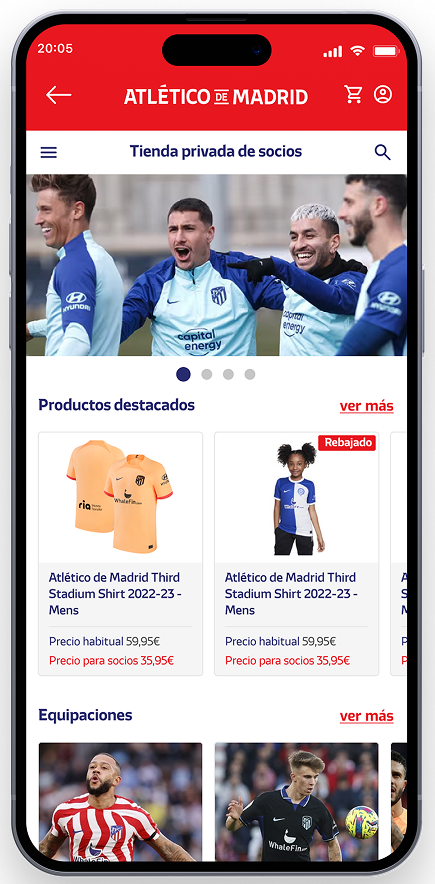
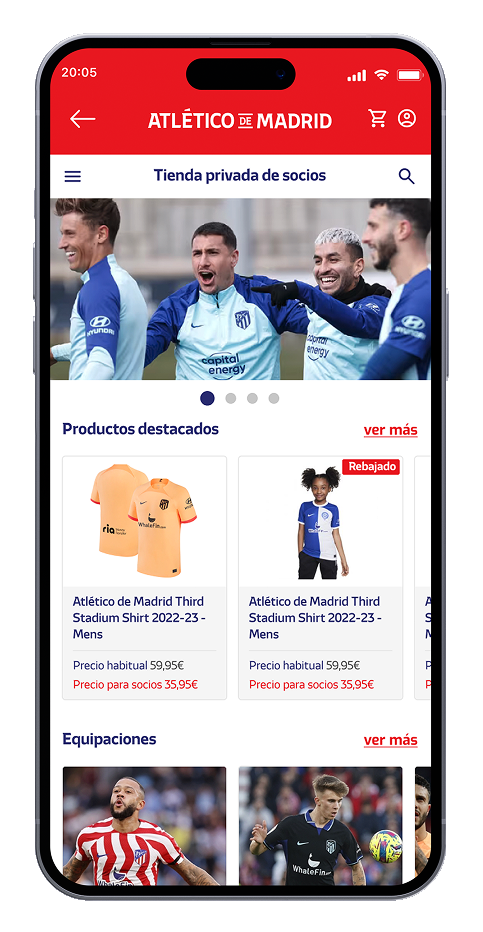
Clean Atlético home mockup shadow

diff --git a/beta/index.html b/beta/index.html
@@ -9,7 +9,7 @@
   <meta name="robots" content="noindex,follow">
   <link rel="canonical" href="https://felipecaroe.github.io/portfolio/beta/">
   <link rel="icon" href="img/favicon.ico">
-  <link rel="stylesheet" href="assets/site.css?v=20261004-community-logos2">
+  <link rel="stylesheet" href="assets/site.css?v=20261004-community-logos3">
   <meta property="og:type" content="website">
   <meta property="og:title" content="Senior AI product designer for agencies | Felipe Amorim">
   <meta property="og:description" content="Senior AI product design and UX/UI for agencies and studios in Madrid, Europe and the UK. Clear conversational experiences, considered edge cases and developer-ready design.">
@@ -18,7 +18,7 @@
   <meta property="og:image:alt" content="Felipe Amorim, senior freelance UX/UI designer for agency teams.">
   <meta name="twitter:card" content="summary_large_image">
   <script type="application/ld+json">[{"@context": "https://schema.org", "@type": "Person", "@id": "https://felipecaroe.github.io/portfolio/beta/#felipe", "name": "Felipe Amorim", "url": "https://felipecaroe.github.io/portfolio/beta/", "image": "https://felipecaroe.github.io/portfolio/beta/img/felipe.png", "jobTitle": "Senior AI product designer and UX lead", "homeLocation": {"@type": "Place", "name": "Madrid, Spain"}, "sameAs": ["https://www.linkedin.com/in/felipecaroe/", "https://www.behance.net/felipecaroe"]}, {"@context": "https://schema.org", "@type": "WebPage", "@id": "https://felipecaroe.github.io/portfolio/beta/#webpage", "url": "https://felipecaroe.github.io/portfolio/beta/", "name": "Senior AI product designer for agencies | Felipe Amorim", "description": "Senior AI product design and UX/UI for agencies and studios in Madrid, Europe and the UK. Clear conversational experiences, considered edge cases and developer-ready design.", "author": {"@id": "https://felipecaroe.github.io/portfolio/beta/#felipe"}}]</script>
-  <link rel="stylesheet" href="assets/theme-washed-blue.css?v=20261004-community-logos2">
+  <link rel="stylesheet" href="assets/theme-washed-blue.css?v=20261004-community-logos3">
 </head>
 <body>
 <video class="site-background-video" autoplay loop muted playsinline webkit-playsinline preload="auto" aria-hidden="true" tabindex="-1"><source src="img/foammedium.webm" type="video/webm"></video>
@@ -44,7 +44,7 @@
   <div class="section-head"><h2>Design that moves the brief forward.</h2><p class="body-copy">Explore product and service work across AI, fintech, sport and hospitality. Each case shows the challenge, my role and the decisions behind the experience.</p></div>
   <div class="work-list">
     <a class="work-card" href="work/luzia-new-chat/"><div class="work-image work-image--device work-image--luzia"><img src="work/luzia-new-chat/assets/first-entrance-shell.png" alt="Luzia AI assistant in a rounded iPhone mockup" width="417" height="881" loading="lazy"></div><div class="work-details"><div><h3>Luzia · New chat</h3><p>AI product · Product strategy · Experience design</p></div><span class="arrow" aria-hidden="true"><svg class="arrow-icon" viewBox="0 0 16 16" aria-hidden="true" focusable="false"><path d="M4 12 12 4M5 4h7v7"/></svg></span></div></a>
-    <a class="work-card work-card--atletico" href="work/atletico-de-madrid.html"><div class="work-image work-image--device"><img src="img/home-atletico-shell.png" alt="Atlético de Madrid mobile shop shown in a rounded phone mockup" width="435" height="884" loading="lazy"></div><div class="work-details"><div><h3>Atlético de Madrid</h3><p>Fan services · Mobile product · +€350k reported monthly revenue</p></div><span class="arrow" aria-hidden="true"><svg class="arrow-icon" viewBox="0 0 16 16" aria-hidden="true" focusable="false"><path d="M4 12 12 4M5 4h7v7"/></svg></span></div></a>
+    <a class="work-card work-card--atletico" href="work/atletico-de-madrid.html"><div class="work-image work-image--device"><img src="img/home-atletico-shell.png" alt="Atlético de Madrid mobile shop shown in a rounded phone mockup" width="483" height="932" loading="lazy"></div><div class="work-details"><div><h3>Atlético de Madrid</h3><p>Fan services · Mobile product · +€350k reported monthly revenue</p></div><span class="arrow" aria-hidden="true"><svg class="arrow-icon" viewBox="0 0 16 16" aria-hidden="true" focusable="false"><path d="M4 12 12 4M5 4h7v7"/></svg></span></div></a>
     <a class="work-card" href="work/card-dynamics.html"><div class="work-image work-image--device"><img src="img/card_dynamics/1.png" alt="Card Dynamics and Carrefour mortgage flow shown in a rounded phone mockup" width="1109" height="2283" loading="lazy"></div><div class="work-details"><div><h3>Card Dynamics</h3><p>Fintech · Product direction · Partner-ready banking flows</p></div><span class="arrow" aria-hidden="true"><svg class="arrow-icon" viewBox="0 0 16 16" aria-hidden="true" focusable="false"><path d="M4 12 12 4M5 4h7v7"/></svg></span></div></a>
     <a class="work-card" href="work/outback.html"><div class="work-image work-image--device"><img src="img/home-outback-shell.png" alt="Outback mobile dining experience shown in a rounded phone mockup" width="429" height="877" loading="lazy"></div><div class="work-details"><div><h3>Outback</h3><p>Customer experience · Service design · +29% reported sales</p></div><span class="arrow" aria-hidden="true"><svg class="arrow-icon" viewBox="0 0 16 16" aria-hidden="true" focusable="false"><path d="M4 12 12 4M5 4h7v7"/></svg></span></div></a>
   </div><p style="margin:32px 0 0"><a class="text-link" href="work.html">Explore all selected work <span class="arrow" aria-hidden="true"><svg class="arrow-icon" viewBox="0 0 16 16" aria-hidden="true" focusable="false"><path d="M4 12 12 4M5 4h7v7"/></svg></span></a></p>

diff --git a/beta/work/ipiranga.html b/beta/work/ipiranga.html
@@ -2,9 +2,9 @@
 <html lang="en"><head>
 <meta charset="utf-8"><meta name="viewport" content="width=device-width, initial-scale=1"><meta name="theme-color" content="#f7f9fc">
 <title>Ipiranga | Felipe Amorim</title><meta name="description" content="Ipiranga Super App product design by Felipe Amorim. The Behance case shows a mobile experience bringing services and account actions together."><meta name="robots" content="noindex,follow">
-<link rel="canonical" href="https://felipecaroe.github.io/portfolio/beta/work/ipiranga.html"><link rel="icon" href="../img/favicon.ico"><link rel="stylesheet" href="../assets/site.css?v=20261004-community-logos2">
+<link rel="canonical" href="https://felipecaroe.github.io/portfolio/beta/work/ipiranga.html"><link rel="icon" href="../img/favicon.ico"><link rel="stylesheet" href="../assets/site.css?v=20261004-community-logos3">
 <meta property="og:type" content="website"><meta property="og:title" content="Ipiranga | Felipe Amorim"><meta property="og:description" content="Ipiranga Super App product design by Felipe Amorim. The Behance case shows a mobile experience bringing services and account actions together."><meta property="og:url" content="https://felipecaroe.github.io/portfolio/beta/work/ipiranga.html"><meta property="og:image" content="https://felipecaroe.github.io/portfolio/beta/work/ipiranga/assets/selected/hero.jpg"><meta property="og:image:alt" content="Ipiranga Super App mobile interface set within yellow and blue brand imagery"><meta name="twitter:card" content="summary_large_image">
-<script type="application/ld+json">[{"@context": "https://schema.org", "@type": "Person", "@id": "https://felipecaroe.github.io/portfolio/beta/#felipe", "name": "Felipe Amorim", "url": "https://felipecaroe.github.io/portfolio/beta/", "image": "https://felipecaroe.github.io/portfolio/beta/img/felipe.png", "jobTitle": "Senior AI product designer and UX lead", "homeLocation": {"@type": "Place", "name": "Madrid, Spain"}, "sameAs": ["https://www.linkedin.com/in/felipecaroe/", "https://www.behance.net/felipecaroe"]}, {"@context": "https://schema.org", "@type": "WebPage", "@id": "https://felipecaroe.github.io/portfolio/beta/work/ipiranga.html#webpage", "url": "https://felipecaroe.github.io/portfolio/beta/work/ipiranga.html", "name": "Ipiranga | Felipe Amorim", "description": "Ipiranga Super App product design by Felipe Amorim. The Behance case shows a mobile experience bringing services and account actions together.", "author": {"@id": "https://felipecaroe.github.io/portfolio/beta/#felipe"}}]</script>  <link rel="stylesheet" href="../assets/theme-washed-blue.css?v=20261004-community-logos2">
+<script type="application/ld+json">[{"@context": "https://schema.org", "@type": "Person", "@id": "https://felipecaroe.github.io/portfolio/beta/#felipe", "name": "Felipe Amorim", "url": "https://felipecaroe.github.io/portfolio/beta/", "image": "https://felipecaroe.github.io/portfolio/beta/img/felipe.png", "jobTitle": "Senior AI product designer and UX lead", "homeLocation": {"@type": "Place", "name": "Madrid, Spain"}, "sameAs": ["https://www.linkedin.com/in/felipecaroe/", "https://www.behance.net/felipecaroe"]}, {"@context": "https://schema.org", "@type": "WebPage", "@id": "https://felipecaroe.github.io/portfolio/beta/work/ipiranga.html#webpage", "url": "https://felipecaroe.github.io/portfolio/beta/work/ipiranga.html", "name": "Ipiranga | Felipe Amorim", "description": "Ipiranga Super App product design by Felipe Amorim. The Behance case shows a mobile experience bringing services and account actions together.", "author": {"@id": "https://felipecaroe.github.io/portfolio/beta/#felipe"}}]</script>  <link rel="stylesheet" href="../assets/theme-washed-blue.css?v=20261004-community-logos3">
 </head><body>
 <video class="site-background-video" autoplay loop muted playsinline webkit-playsinline preload="auto" aria-hidden="true" tabindex="-1"><source src="../img/foammedium.webm" type="video/webm"></video><a class="skip-link" href="#main">Skip to content</a>
 <header class="site-header"><div class="shell header-row"><a class="brand" href="../index.html" aria-label="Felipe Amorim, home"><img class="brand-anchor" src="../img/anchor.svg" alt="">Felipe Amorim</a><nav class="nav" aria-label="Main navigation"><a href="../work.html" aria-current="page">Work</a><a href="../services.html">Services</a><a href="../leadership.html">About</a><a class="nav-contact" href="../contact.html">Contact</a></nav></div></header>

diff --git a/beta/work/raio.html b/beta/work/raio.html
@@ -2,9 +2,9 @@
 <html lang="en"><head>
 <meta charset="utf-8"><meta name="viewport" content="width=device-width, initial-scale=1"><meta name="theme-color" content="#f7f9fc">
 <title>Raiô | Felipe Amorim</title><meta name="description" content="UX Raiô Benefícios product design by Felipe Amorim. The Behance case shows mobile views for benefits and financial information."><meta name="robots" content="noindex,follow">
-<link rel="canonical" href="https://felipecaroe.github.io/portfolio/beta/work/raio.html"><link rel="icon" href="../img/favicon.ico"><link rel="stylesheet" href="../assets/site.css?v=20261004-community-logos2">
+<link rel="canonical" href="https://felipecaroe.github.io/portfolio/beta/work/raio.html"><link rel="icon" href="../img/favicon.ico"><link rel="stylesheet" href="../assets/site.css?v=20261004-community-logos3">
 <meta property="og:type" content="website"><meta property="og:title" content="Raiô | Felipe Amorim"><meta property="og:description" content="UX Raiô Benefícios product design by Felipe Amorim. The Behance case shows mobile views for benefits and financial information."><meta property="og:url" content="https://felipecaroe.github.io/portfolio/beta/work/raio.html"><meta property="og:image" content="https://felipecaroe.github.io/portfolio/beta/work/raio/assets/selected/hero.jpg"><meta property="og:image:alt" content="Raiô benefits app presented across three mobile screens"><meta name="twitter:card" content="summary_large_image">
-<script type="application/ld+json">[{"@context": "https://schema.org", "@type": "Person", "@id": "https://felipecaroe.github.io/portfolio/beta/#felipe", "name": "Felipe Amorim", "url": "https://felipecaroe.github.io/portfolio/beta/", "image": "https://felipecaroe.github.io/portfolio/beta/img/felipe.png", "jobTitle": "Senior AI product designer and UX lead", "homeLocation": {"@type": "Place", "name": "Madrid, Spain"}, "sameAs": ["https://www.linkedin.com/in/felipecaroe/", "https://www.behance.net/felipecaroe"]}, {"@context": "https://schema.org", "@type": "WebPage", "@id": "https://felipecaroe.github.io/portfolio/beta/work/raio.html#webpage", "url": "https://felipecaroe.github.io/portfolio/beta/work/raio.html", "name": "Raiô | Felipe Amorim", "description": "UX Raiô Benefícios product design by Felipe Amorim. The Behance case shows mobile views for benefits and financial information.", "author": {"@id": "https://felipecaroe.github.io/portfolio/beta/#felipe"}}]</script>  <link rel="stylesheet" href="../assets/theme-washed-blue.css?v=20261004-community-logos2">
+<script type="application/ld+json">[{"@context": "https://schema.org", "@type": "Person", "@id": "https://felipecaroe.github.io/portfolio/beta/#felipe", "name": "Felipe Amorim", "url": "https://felipecaroe.github.io/portfolio/beta/", "image": "https://felipecaroe.github.io/portfolio/beta/img/felipe.png", "jobTitle": "Senior AI product designer and UX lead", "homeLocation": {"@type": "Place", "name": "Madrid, Spain"}, "sameAs": ["https://www.linkedin.com/in/felipecaroe/", "https://www.behance.net/felipecaroe"]}, {"@context": "https://schema.org", "@type": "WebPage", "@id": "https://felipecaroe.github.io/portfolio/beta/work/raio.html#webpage", "url": "https://felipecaroe.github.io/portfolio/beta/work/raio.html", "name": "Raiô | Felipe Amorim", "description": "UX Raiô Benefícios product design by Felipe Amorim. The Behance case shows mobile views for benefits and financial information.", "author": {"@id": "https://felipecaroe.github.io/portfolio/beta/#felipe"}}]</script>  <link rel="stylesheet" href="../assets/theme-washed-blue.css?v=20261004-community-logos3">
 </head><body>
 <video class="site-background-video" autoplay loop muted playsinline webkit-playsinline preload="auto" aria-hidden="true" tabindex="-1"><source src="../img/foammedium.webm" type="video/webm"></video><a class="skip-link" href="#main">Skip to content</a>
 <header class="site-header"><div class="shell header-row"><a class="brand" href="../index.html" aria-label="Felipe Amorim, home"><img class="brand-anchor" src="../img/anchor.svg" alt="">Felipe Amorim</a><nav class="nav" aria-label="Main navigation"><a href="../work.html" aria-current="page">Work</a><a href="../services.html">Services</a><a href="../leadership.html">About</a><a class="nav-contact" href="../contact.html">Contact</a></nav></div></header>

diff --git a/beta/work/skateking.html b/beta/work/skateking.html
@@ -2,9 +2,9 @@
 <html lang="en"><head>
 <meta charset="utf-8"><meta name="viewport" content="width=device-width, initial-scale=1"><meta name="theme-color" content="#f7f9fc">
 <title>SkateKing | Felipe Amorim</title><meta name="description" content="SkateKing is a community app designed to help skateboarders find skate spots, skateparks and shops."><meta name="robots" content="noindex,follow">
-<link rel="canonical" href="https://felipecaroe.github.io/portfolio/beta/work/skateking.html"><link rel="icon" href="../img/favicon.ico"><link rel="stylesheet" href="../assets/site.css?v=20261004-community-logos2">
+<link rel="canonical" href="https://felipecaroe.github.io/portfolio/beta/work/skateking.html"><link rel="icon" href="../img/favicon.ico"><link rel="stylesheet" href="../assets/site.css?v=20261004-community-logos3">
 <meta property="og:type" content="website"><meta property="og:title" content="SkateKing | Felipe Amorim"><meta property="og:description" content="SkateKing is a community app designed to help skateboarders find skate spots, skateparks and shops."><meta property="og:url" content="https://felipecaroe.github.io/portfolio/beta/work/skateking.html"><meta property="og:image" content="https://felipecaroe.github.io/portfolio/beta/img/behance/skateking.png"><meta property="og:image:alt" content="SkateKing app visual about a mobile community to discover places to skate"><meta name="twitter:card" content="summary_large_image">
-<script type="application/ld+json">[{"@context": "https://schema.org", "@type": "Person", "@id": "https://felipecaroe.github.io/portfolio/beta/#felipe", "name": "Felipe Amorim", "url": "https://felipecaroe.github.io/portfolio/beta/", "image": "https://felipecaroe.github.io/portfolio/beta/img/felipe.png", "jobTitle": "Senior AI product designer and UX lead", "homeLocation": {"@type": "Place", "name": "Madrid, Spain"}, "sameAs": ["https://www.linkedin.com/in/felipecaroe/", "https://www.behance.net/felipecaroe"]}, {"@context": "https://schema.org", "@type": "WebPage", "@id": "https://felipecaroe.github.io/portfolio/beta/work/skateking.html#webpage", "url": "https://felipecaroe.github.io/portfolio/beta/work/skateking.html", "name": "SkateKing | Felipe Amorim", "description": "SkateKing is a community app designed to help skateboarders find skate spots, skateparks and shops.", "author": {"@id": "https://felipecaroe.github.io/portfolio/beta/#felipe"}}]</script>  <link rel="stylesheet" href="../assets/theme-washed-blue.css?v=20261004-community-logos2">
+<script type="application/ld+json">[{"@context": "https://schema.org", "@type": "Person", "@id": "https://felipecaroe.github.io/portfolio/beta/#felipe", "name": "Felipe Amorim", "url": "https://felipecaroe.github.io/portfolio/beta/", "image": "https://felipecaroe.github.io/portfolio/beta/img/felipe.png", "jobTitle": "Senior AI product designer and UX lead", "homeLocation": {"@type": "Place", "name": "Madrid, Spain"}, "sameAs": ["https://www.linkedin.com/in/felipecaroe/", "https://www.behance.net/felipecaroe"]}, {"@context": "https://schema.org", "@type": "WebPage", "@id": "https://felipecaroe.github.io/portfolio/beta/work/skateking.html#webpage", "url": "https://felipecaroe.github.io/portfolio/beta/work/skateking.html", "name": "SkateKing | Felipe Amorim", "description": "SkateKing is a community app designed to help skateboarders find skate spots, skateparks and shops.", "author": {"@id": "https://felipecaroe.github.io/portfolio/beta/#felipe"}}]</script>  <link rel="stylesheet" href="../assets/theme-washed-blue.css?v=20261004-community-logos3">
 </head><body>
 <video class="site-background-video" autoplay loop muted playsinline webkit-playsinline preload="auto" aria-hidden="true" tabindex="-1"><source src="../img/foammedium.webm" type="video/webm"></video><a class="skip-link" href="#main">Skip to content</a>
 <header class="site-header"><div class="shell header-row"><a class="brand" href="../index.html" aria-label="Felipe Amorim, home"><img class="brand-anchor" src="../img/anchor.svg" alt="">Felipe Amorim</a><nav class="nav" aria-label="Main navigation"><a href="../work.html" aria-current="page">Work</a><a href="../services.html">Services</a><a href="../leadership.html">About</a><a class="nav-contact" href="../contact.html">Contact</a></nav></div></header>

diff --git a/beta/services.html b/beta/services.html
@@ -9,7 +9,7 @@
   <meta name="robots" content="noindex,follow">
   <link rel="canonical" href="https://felipecaroe.github.io/portfolio/beta/services.html">
   <link rel="icon" href="img/favicon.ico">
-  <link rel="stylesheet" href="assets/site.css?v=20261004-community-logos2">
+  <link rel="stylesheet" href="assets/site.css?v=20261004-community-logos3">
   <meta property="og:type" content="website">
   <meta property="og:title" content="AI product design and UX/UI for agencies | Felipe Amorim">
   <meta property="og:description" content="Senior AI product design and UX/UI support for agencies and studios in Madrid, Europe and the UK. Focused briefs and monthly capacity, with pricing discussed directly.">
@@ -18,7 +18,7 @@
   <meta property="og:image:alt" content="Felipe Amorim, senior freelance UX/UI designer for agency teams.">
   <meta name="twitter:card" content="summary_large_image">
   <script type="application/ld+json">[{"@context": "https://schema.org", "@type": "Person", "@id": "https://felipecaroe.github.io/portfolio/beta/#felipe", "name": "Felipe Amorim", "url": "https://felipecaroe.github.io/portfolio/beta/", "image": "https://felipecaroe.github.io/portfolio/beta/img/felipe.png", "jobTitle": "Senior AI product designer and UX lead", "homeLocation": {"@type": "Place", "name": "Madrid, Spain"}, "sameAs": ["https://www.linkedin.com/in/felipecaroe/", "https://www.behance.net/felipecaroe"]}, {"@context": "https://schema.org", "@type": "WebPage", "@id": "https://felipecaroe.github.io/portfolio/beta/services.html#webpage", "url": "https://felipecaroe.github.io/portfolio/beta/services.html", "name": "AI product design and UX/UI for agencies | Felipe Amorim", "description": "Senior AI product design and UX/UI support for agencies and studios in Madrid, Europe and the UK. Focused briefs and monthly capacity, with pricing discussed directly.", "author": {"@id": "https://felipecaroe.github.io/portfolio/beta/#felipe"}}, {"@context": "https://schema.org", "@type": "Service", "name": "AI and freelance product design support", "description": "Senior product design for AI interactions, UX/UI flows, mobile and web interfaces, product reviews and early product direction.", "serviceType": ["AI product design", "AI interaction design", "UX/UI design", "Product design", "Product experience review", "Product strategy"], "provider": {"@id": "https://felipecaroe.github.io/portfolio/beta/#felipe"}, "areaServed": ["Europe", "United Kingdom"]}]</script>
-  <link rel="stylesheet" href="assets/theme-washed-blue.css?v=20261004-community-logos2">
+  <link rel="stylesheet" href="assets/theme-washed-blue.css?v=20261004-community-logos3">
 </head>
 <body>
 <video class="site-background-video" autoplay loop muted playsinline webkit-playsinline preload="auto" aria-hidden="true" tabindex="-1"><source src="img/foammedium.webm" type="video/webm"></video>

diff --git a/beta/services/ux-ui-brief.html b/beta/services/ux-ui-brief.html
@@ -9,7 +9,7 @@
   <meta name="robots" content="noindex,follow">
   <link rel="canonical" href="https://felipecaroe.github.io/portfolio/beta/services/ux-ui-brief.html">
   <link rel="icon" href="../img/favicon.ico">
-  <link rel="stylesheet" href="../assets/site.css?v=20261004-community-logos2">
+  <link rel="stylesheet" href="../assets/site.css?v=20261004-community-logos3">
   <meta property="og:type" content="website">
   <meta property="og:title" content="Focused AI product design and UX/UI brief | Felipe Amorim">
   <meta property="og:description" content="A focused UX/UI or AI interaction design brief for agency and studio teams. Senior design on one agreed flow, screen set or product review; pricing discussed directly.">
@@ -18,7 +18,7 @@
   <meta property="og:image:alt" content="Felipe Amorim, senior freelance UX/UI designer for agency teams.">
   <meta name="twitter:card" content="summary_large_image">
   <script type="application/ld+json">[{"@context": "https://schema.org", "@type": "Person", "@id": "https://felipecaroe.github.io/portfolio/beta/#felipe", "name": "Felipe Amorim", "url": "https://felipecaroe.github.io/portfolio/beta/", "image": "https://felipecaroe.github.io/portfolio/beta/img/felipe.png", "jobTitle": "Senior AI product designer and UX lead", "homeLocation": {"@type": "Place", "name": "Madrid, Spain"}, "sameAs": ["https://www.linkedin.com/in/felipecaroe/", "https://www.behance.net/felipecaroe"]}, {"@context": "https://schema.org", "@type": "WebPage", "@id": "https://felipecaroe.github.io/portfolio/beta/services/ux-ui-brief.html#webpage", "url": "https://felipecaroe.github.io/portfolio/beta/services/ux-ui-brief.html", "name": "Focused AI product design and UX/UI brief | Felipe Amorim", "description": "A focused UX/UI or AI interaction design brief for agency and studio teams. Senior design on one agreed flow, screen set or product review; pricing discussed directly.", "author": {"@id": "https://felipecaroe.github.io/portfolio/beta/#felipe"}}, {"@context": "https://schema.org", "@type": "Service", "name": "Focused UX/UI and AI interaction design brief", "description": "Up to four hours of senior UX/UI or AI interaction design for one agreed agency or product team brief, including handover and feedback within the allowance.", "provider": {"@id": "https://felipecaroe.github.io/portfolio/beta/#felipe"}, "areaServed": ["Europe", "United Kingdom"]}]</script>
-  <link rel="stylesheet" href="../assets/theme-washed-blue.css?v=20261004-community-logos2">
+  <link rel="stylesheet" href="../assets/theme-washed-blue.css?v=20261004-community-logos3">
 </head>
 <body>
 <video class="site-background-video" autoplay loop muted playsinline webkit-playsinline preload="auto" aria-hidden="true" tabindex="-1"><source src="../img/foammedium.webm" type="video/webm"></video>

diff --git a/beta/services/monthly-design.html b/beta/services/monthly-design.html
@@ -9,7 +9,7 @@
   <meta name="robots" content="noindex,follow">
   <link rel="canonical" href="https://felipecaroe.github.io/portfolio/beta/services/monthly-design.html">
   <link rel="icon" href="../img/favicon.ico">
-  <link rel="stylesheet" href="../assets/site.css?v=20261004-community-logos2">
+  <link rel="stylesheet" href="../assets/site.css?v=20261004-community-logos3">
   <meta property="og:type" content="website">
   <meta property="og:title" content="Monthly freelance UX/UI for agencies | Felipe Amorim">
   <meta property="og:description" content="Monthly senior freelance UX/UI capacity for agency and studio client projects in Europe and the UK. Pricing discussed directly.">
@@ -18,7 +18,7 @@
   <meta property="og:image:alt" content="Felipe Amorim, senior freelance UX/UI designer for agency teams.">
   <meta name="twitter:card" content="summary_large_image">
   <script type="application/ld+json">[{"@context": "https://schema.org", "@type": "Person", "@id": "https://felipecaroe.github.io/portfolio/beta/#felipe", "name": "Felipe Amorim", "url": "https://felipecaroe.github.io/portfolio/beta/", "image": "https://felipecaroe.github.io/portfolio/beta/img/felipe.png", "jobTitle": "Senior AI product designer and UX lead", "homeLocation": {"@type": "Place", "name": "Madrid, Spain"}, "sameAs": ["https://www.linkedin.com/in/felipecaroe/", "https://www.behance.net/felipecaroe"]}, {"@context": "https://schema.org", "@type": "WebPage", "@id": "https://felipecaroe.github.io/portfolio/beta/services/monthly-design.html#webpage", "url": "https://felipecaroe.github.io/portfolio/beta/services/monthly-design.html", "name": "Monthly freelance UX/UI for agencies | Felipe Amorim", "description": "Monthly senior freelance UX/UI capacity for agency and studio client projects in Europe and the UK. Pricing discussed directly.", "author": {"@id": "https://felipecaroe.github.io/portfolio/beta/#felipe"}}, {"@context": "https://schema.org", "@type": "Service", "name": "Monthly product design support", "description": "Sixteen hours per month of senior UX/UI design for agency client projects, including flows, screens, reviews and developer handover.", "provider": {"@id": "https://felipecaroe.github.io/portfolio/beta/#felipe"}, "areaServed": ["Europe", "United Kingdom"]}]</script>
-  <link rel="stylesheet" href="../assets/theme-washed-blue.css?v=20261004-community-logos2">
+  <link rel="stylesheet" href="../assets/theme-washed-blue.css?v=20261004-community-logos3">
 </head>
 <body>
 <video class="site-background-video" autoplay loop muted playsinline webkit-playsinline preload="auto" aria-hidden="true" tabindex="-1"><source src="../img/foammedium.webm" type="video/webm"></video>

diff --git a/beta/leadership.html b/beta/leadership.html
@@ -9,7 +9,7 @@
   <meta name="robots" content="noindex,follow">
   <link rel="canonical" href="https://felipecaroe.github.io/portfolio/beta/leadership.html">
   <link rel="icon" href="img/favicon.ico">
-  <link rel="stylesheet" href="assets/site.css?v=20261004-community-logos2">
+  <link rel="stylesheet" href="assets/site.css?v=20261004-community-logos3">
   <meta property="og:type" content="website">
   <meta property="og:title" content="Senior AI product designer and UX lead | Felipe Amorim">
   <meta property="og:description" content="Felipe Amorim is a Madrid-based senior AI product designer with 20+ years across AI product experience, UX, service design and digital products. He works in Portuguese, English, Spanish and Italian.">
@@ -18,7 +18,7 @@
   <meta property="og:image:alt" content="Felipe Amorim, senior freelance UX/UI designer for agency teams.">
   <meta name="twitter:card" content="summary_large_image">
   <script type="application/ld+json">[{"@context": "https://schema.org", "@type": "Person", "@id": "https://felipecaroe.github.io/portfolio/beta/#felipe", "name": "Felipe Amorim", "url": "https://felipecaroe.github.io/portfolio/beta/", "image": "https://felipecaroe.github.io/portfolio/beta/img/felipe.png", "jobTitle": "Senior AI product designer and UX lead", "homeLocation": {"@type": "Place", "name": "Madrid, Spain"}, "sameAs": ["https://www.linkedin.com/in/felipecaroe/", "https://www.behance.net/felipecaroe"]}, {"@context": "https://schema.org", "@type": "WebPage", "@id": "https://felipecaroe.github.io/portfolio/beta/leadership.html#webpage", "url": "https://felipecaroe.github.io/portfolio/beta/leadership.html", "name": "Senior AI product designer and UX lead | Felipe Amorim", "description": "Felipe Amorim is a Madrid-based senior AI product designer with 20+ years across AI product experience, UX, service design and digital products. He works in Portuguese, English, Spanish and Italian.", "author": {"@id": "https://felipecaroe.github.io/portfolio/beta/#felipe"}}]</script>
-  <link rel="stylesheet" href="assets/theme-washed-blue.css?v=20261004-community-logos2">
+  <link rel="stylesheet" href="assets/theme-washed-blue.css?v=20261004-community-logos3">
 </head>
 <body>
 <video class="site-background-video" autoplay loop muted playsinline webkit-playsinline preload="auto" aria-hidden="true" tabindex="-1"><source src="img/foammedium.webm" type="video/webm"></video>

diff --git a/beta/work/pizza-hut.html b/beta/work/pizza-hut.html
@@ -9,7 +9,7 @@
   <meta name="robots" content="noindex,follow">
   <link rel="canonical" href="https://felipecaroe.github.io/portfolio/beta/work/pizza-hut.html">
   <link rel="icon" href="../img/favicon.ico">
-  <link rel="stylesheet" href="../assets/site.css?v=20261004-community-logos2">
+  <link rel="stylesheet" href="../assets/site.css?v=20261004-community-logos3">
   <meta property="og:type" content="website">
   <meta property="og:title" content="Easing the wait between order and arrival. | Felipe Amorim">
   <meta property="og:description" content="Pizza Hut service design led by Felipe Amorim: an eight-person team audited 25+ channels, identified 65 experience gaps and improved the Brazilian digital ecosystem.">
@@ -18,7 +18,7 @@
   <meta property="og:image:alt" content="Felipe Amorim, senior freelance UX/UI designer for agency teams.">
   <meta name="twitter:card" content="summary_large_image">
   <script type="application/ld+json">[{"@context": "https://schema.org", "@type": "Person", "@id": "https://felipecaroe.github.io/portfolio/beta/#felipe", "name": "Felipe Amorim", "url": "https://felipecaroe.github.io/portfolio/beta/", "image": "https://felipecaroe.github.io/portfolio/beta/img/felipe.png", "jobTitle": "Senior AI product designer and UX lead", "homeLocation": {"@type": "Place", "name": "Madrid, Spain"}, "sameAs": ["https://www.linkedin.com/in/felipecaroe/", "https://www.behance.net/felipecaroe"]}, {"@context": "https://schema.org", "@type": "WebPage", "@id": "https://felipecaroe.github.io/portfolio/beta/work/pizza-hut.html#webpage", "url": "https://felipecaroe.github.io/portfolio/beta/work/pizza-hut.html", "name": "Easing the wait between order and arrival. | Felipe Amorim", "description": "Pizza Hut service design led by Felipe Amorim: an eight-person team audited 25+ channels, identified 65 experience gaps and improved the Brazilian digital ecosystem.", "author": {"@id": "https://felipecaroe.github.io/portfolio/beta/#felipe"}}]</script>
-  <link rel="stylesheet" href="../assets/theme-washed-blue.css?v=20261004-community-logos2">
+  <link rel="stylesheet" href="../assets/theme-washed-blue.css?v=20261004-community-logos3">
 </head>
 <body>
 <video class="site-background-video" autoplay loop muted playsinline webkit-playsinline preload="auto" aria-hidden="true" tabindex="-1"><source src="../img/foammedium.webm" type="video/webm"></video>

diff --git a/beta/work/card-dynamics.html b/beta/work/card-dynamics.html
@@ -9,7 +9,7 @@
   <meta name="robots" content="noindex,follow">
   <link rel="canonical" href="https://felipecaroe.github.io/portfolio/beta/work/card-dynamics.html">
   <link rel="icon" href="../img/favicon.ico">
-  <link rel="stylesheet" href="../assets/site.css?v=20261004-community-logos2">
+  <link rel="stylesheet" href="../assets/site.css?v=20261004-community-logos3">
   <meta property="og:type" content="website">
   <meta property="og:title" content="Making financial flows feel navigable. | Felipe Amorim">
   <meta property="og:description" content="Product and design leadership for Card Dynamics, connecting fintech design operations, brand direction and partner-branded banking flows.">
@@ -18,7 +18,7 @@
   <meta property="og:image:alt" content="Felipe Amorim, senior freelance UX/UI designer for agency teams.">
   <meta name="twitter:card" content="summary_large_image">
   <script type="application/ld+json">[{"@context": "https://schema.org", "@type": "Person", "@id": "https://felipecaroe.github.io/portfolio/beta/#felipe", "name": "Felipe Amorim", "url": "https://felipecaroe.github.io/portfolio/beta/", "image": "https://felipecaroe.github.io/portfolio/beta/img/felipe.png", "jobTitle": "Senior AI product designer and UX lead", "homeLocation": {"@type": "Place", "name": "Madrid, Spain"}, "sameAs": ["https://www.linkedin.com/in/felipecaroe/", "https://www.behance.net/felipecaroe"]}, {"@context": "https://schema.org", "@type": "WebPage", "@id": "https://felipecaroe.github.io/portfolio/beta/work/card-dynamics.html#webpage", "url": "https://felipecaroe.github.io/portfolio/beta/work/card-dynamics.html", "name": "Making financial flows feel navigable. | Felipe Amorim", "description": "Product and design leadership for Card Dynamics, connecting fintech design operations, brand direction and partner-branded banking flows.", "author": {"@id": "https://felipecaroe.github.io/portfolio/beta/#felipe"}}]</script>
-  <link rel="stylesheet" href="../assets/theme-washed-blue.css?v=20261004-community-logos2">
+  <link rel="stylesheet" href="../assets/theme-washed-blue.css?v=20261004-community-logos3">
 </head>
 <body>
 <video class="site-background-video" autoplay loop muted playsinline webkit-playsinline preload="auto" aria-hidden="true" tabindex="-1"><source src="../img/foammedium.webm" type="video/webm"></video>

diff --git a/beta/work/invisipayment.html b/beta/work/invisipayment.html
@@ -9,7 +9,7 @@
   <meta name="robots" content="noindex,follow">
   <link rel="canonical" href="https://felipecaroe.github.io/portfolio/beta/work/invisipayment.html">
   <link rel="icon" href="../img/favicon.ico">
-  <link rel="stylesheet" href="../assets/site.css?v=20261004-community-logos2">
+  <link rel="stylesheet" href="../assets/site.css?v=20261004-community-logos3">
   <meta property="og:type" content="website">
   <meta property="og:title" content="A more human future for everyday payments. | Felipe Amorim">
   <meta property="og:description" content="A speculative design project using futures thinking and AI interaction design to imagine payment experiences that feel more human.">
@@ -18,7 +18,7 @@
   <meta property="og:image:alt" content="Felipe Amorim, senior freelance UX/UI designer for agency teams.">
   <meta name="twitter:card" content="summary_large_image">
   <script type="application/ld+json">[{"@context": "https://schema.org", "@type": "Person", "@id": "https://felipecaroe.github.io/portfolio/beta/#felipe", "name": "Felipe Amorim", "url": "https://felipecaroe.github.io/portfolio/beta/", "image": "https://felipecaroe.github.io/portfolio/beta/img/felipe.png", "jobTitle": "Senior AI product designer and UX lead", "homeLocation": {"@type": "Place", "name": "Madrid, Spain"}, "sameAs": ["https://www.linkedin.com/in/felipecaroe/", "https://www.behance.net/felipecaroe"]}, {"@context": "https://schema.org", "@type": "WebPage", "@id": "https://felipecaroe.github.io/portfolio/beta/work/invisipayment.html#webpage", "url": "https://felipecaroe.github.io/portfolio/beta/work/invisipayment.html", "name": "A more human future for everyday payments. | Felipe Amorim", "description": "A speculative design project using futures thinking and AI interaction design to imagine payment experiences that feel more human.", "author": {"@id": "https://felipecaroe.github.io/portfolio/beta/#felipe"}}]</script>
-  <link rel="stylesheet" href="../assets/theme-washed-blue.css?v=20261004-community-logos2">
+  <link rel="stylesheet" href="../assets/theme-washed-blue.css?v=20261004-community-logos3">
 </head>
 <body>
 <video class="site-background-video" autoplay loop muted playsinline webkit-playsinline preload="auto" aria-hidden="true" tabindex="-1"><source src="../img/foammedium.webm" type="video/webm"></video>

diff --git a/beta/work/atletico-de-madrid.html b/beta/work/atletico-de-madrid.html
@@ -9,7 +9,7 @@
   <meta name="robots" content="noindex,follow">
   <link rel="canonical" href="https://felipecaroe.github.io/portfolio/beta/work/atletico-de-madrid.html">
   <link rel="icon" href="../img/favicon.ico">
-  <link rel="stylesheet" href="../assets/site.css?v=20261004-community-logos2">
+  <link rel="stylesheet" href="../assets/site.css?v=20261004-community-logos3">
   <meta property="og:type" content="website">
   <meta property="og:title" content="Bringing the fan journey into one app. | Felipe Amorim">
   <meta property="og:description" content="Mobile product design for Atlético de Madrid, connecting fan services and card benefits in a clearer app experience.">
@@ -18,7 +18,7 @@
   <meta property="og:image:alt" content="Felipe Amorim, senior freelance UX/UI designer for agency teams.">
   <meta name="twitter:card" content="summary_large_image">
   <script type="application/ld+json">[{"@context": "https://schema.org", "@type": "Person", "@id": "https://felipecaroe.github.io/portfolio/beta/#felipe", "name": "Felipe Amorim", "url": "https://felipecaroe.github.io/portfolio/beta/", "image": "https://felipecaroe.github.io/portfolio/beta/img/felipe.png", "jobTitle": "Senior AI product designer and UX lead", "homeLocation": {"@type": "Place", "name": "Madrid, Spain"}, "sameAs": ["https://www.linkedin.com/in/felipecaroe/", "https://www.behance.net/felipecaroe"]}, {"@context": "https://schema.org", "@type": "WebPage", "@id": "https://felipecaroe.github.io/portfolio/beta/work/atletico-de-madrid.html#webpage", "url": "https://felipecaroe.github.io/portfolio/beta/work/atletico-de-madrid.html", "name": "Bringing the fan journey into one app. | Felipe Amorim", "description": "Mobile product design for Atlético de Madrid, connecting fan services and card benefits in a clearer app experience.", "author": {"@id": "https://felipecaroe.github.io/portfolio/beta/#felipe"}}]</script>
-  <link rel="stylesheet" href="../assets/theme-washed-blue.css?v=20261004-community-logos2">
+  <link rel="stylesheet" href="../assets/theme-washed-blue.css?v=20261004-community-logos3">
 </head>
 <body>
 <video class="site-background-video" autoplay loop muted playsinline webkit-playsinline preload="auto" aria-hidden="true" tabindex="-1"><source src="../img/foammedium.webm" type="video/webm"></video>
